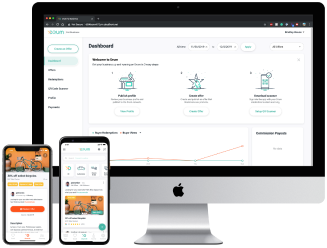
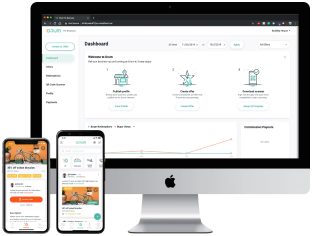
feat: update width, height image

diff --git a/case-study/drum.html b/case-study/drum.html
@@ -50,7 +50,7 @@
           </div>
         </div>
         <picture data-w-id="e96889f9-81d3-8bcc-3444-f073233b7b74" class="case-study-mobile-hero-right-column drum-cast-study-mobile-hero-right-column w-col w-col-6">
-          <source loading="lazy" media="(max-width: 479px)" width="327px" height="248px" srcset="../images/case-study/drum/webp/drum-dashboard-mobile.webp" type="image/webp">
+          <source loading="lazy" media="(max-width: 479px)" width="312px" height="235px" srcset="../images/case-study/drum/webp/drum-dashboard-mobile.webp" type="image/webp">
           <source media="(min-width: 480px)" srcset="../images/case-study/drum/webp/drum-dashboard-p-800.webp 1080w" type="image/webp">
           <img src="../images/drum-dashboard.png" alt="Screenshot of Drum website and mobile app user dashboard" srcset="../images/case-study/drum/png/drum-dashboard-p-500.png 500w, ../images/case-study/drum/png/drum-dashboard-p-800.png 800w, ../images/case-study/drum/png/drum-dashboard-p-1080.png 1080w, ../images/case-study/drum/png/drum-dashboard.png 1563w" sizes="(max-width: 479px) 90vw, (max-width: 991px) 94vw, 60vw" class="mobile-case-study-hero-image drum-hero">
         </picture>
